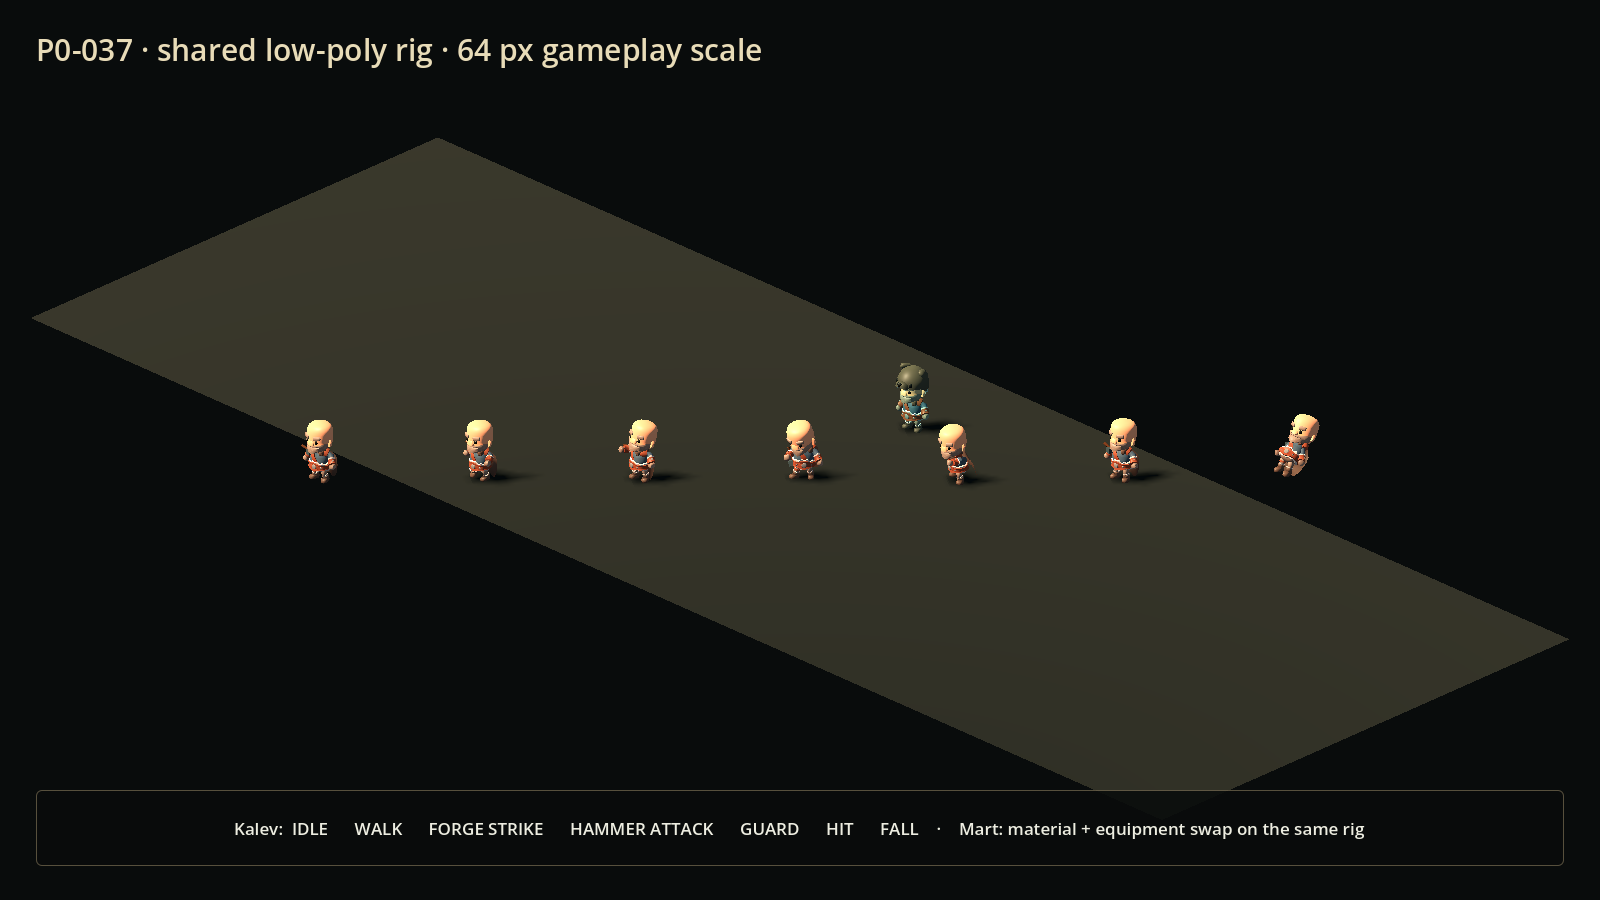
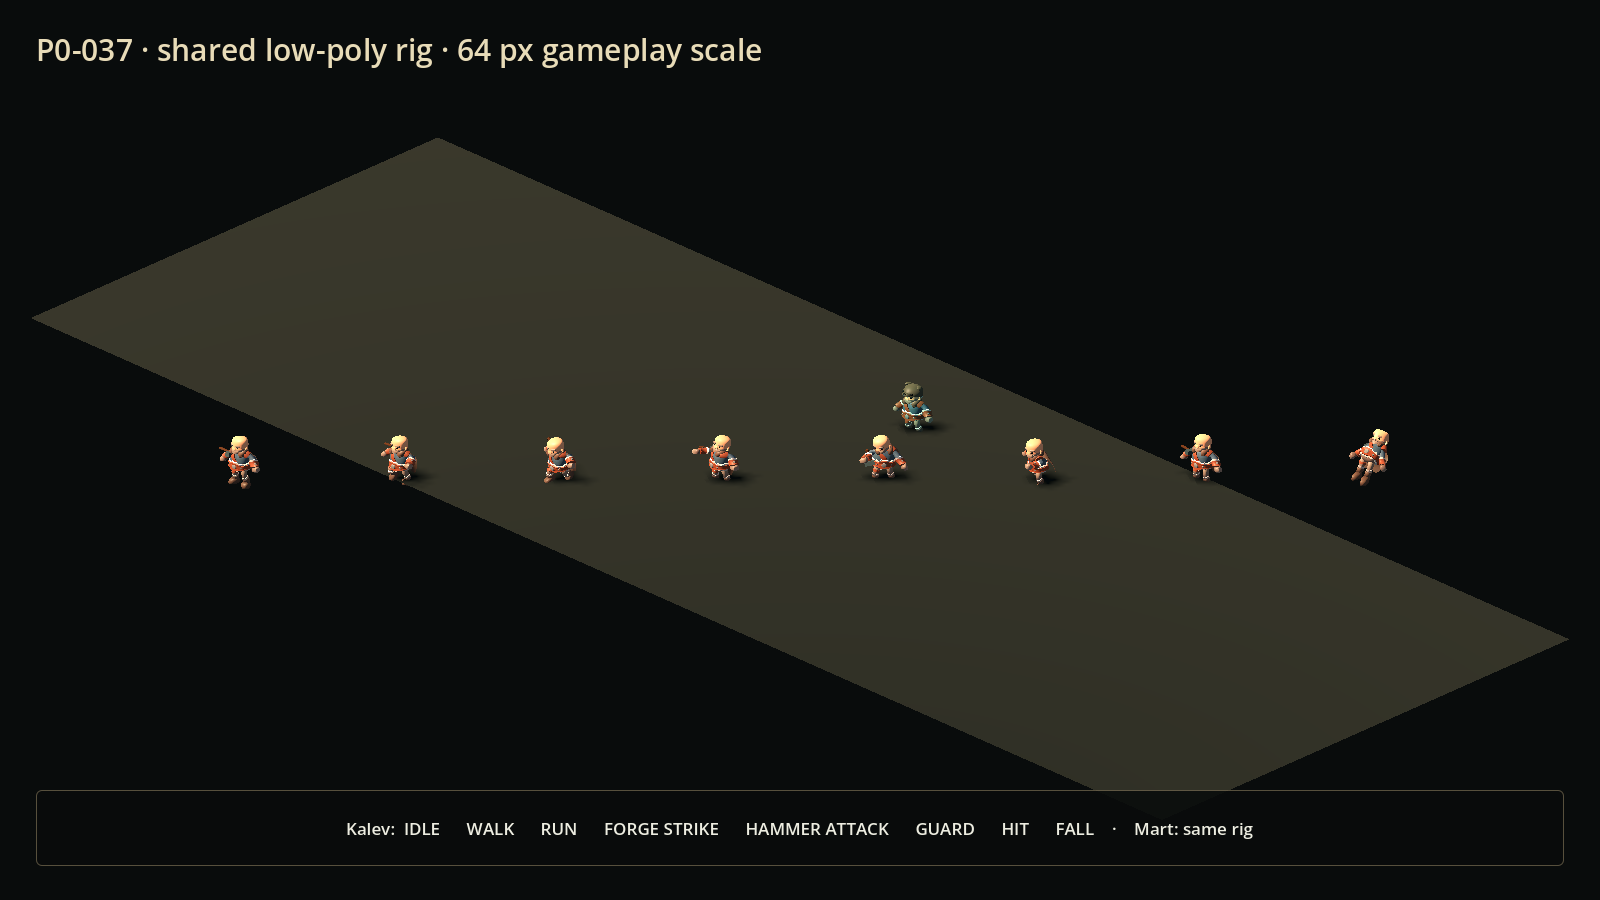
feat(characters): improve humanoid proportions and running gait
Use the existing run cycle with clear contralateral arm swing, push the shared skeleton toward adult heroic proportions, and add pose-level regression coverage plus updated showcase evidence.

diff --git a/assets/characters/README.md b/assets/characters/README.md
@@ -27,11 +27,14 @@ character.play_animation(&"walk")
 |---|---|---|
 | `idle` | `Idle` | neutral loop |
 | `walk` | `Walking_A` | logic-plane locomotion loop |
+| `run` | `Running_B` | faster stride with contralateral forward/backward arm swing |
 | `forge_strike` | `1H_Melee_Attack_Chop` | downward work strike |
 | `hammer_attack` | `1H_Melee_Attack_Slice_Diagonal` | combat strike |
 | `guard` | `Blocking` | held guard loop |
 | `hit` | `Hit_A` | damage reaction |
 | `fall` | `Death_A` | non-looping fall |
+
+The runtime applies a non-destructive `SkeletonModifier3D` after every animation update to move the compact vendor silhouette toward adult heroic proportions: the head is reduced to `0.64`, both leg segments are lengthened to `1.30`, both arm segments to `1.24`, and the torso is compressed slightly to `0.88`. This keeps every mesh and animation on the shared rig while making the figure read closer to the grounded proportions of classic isometric RPGs.
 
 The shared model is normalized to `2.0` world units. `CharacterScale.GAMEPLAY_ORTHOGRAPHIC_SIZE` is `28.125`, which projects that height to the carried-forward 64 px target in the 1600 x 900 viewport. P0-052 may read these constants but must not duplicate or silently change them; P0-040 can replace them when ART_BIBLE v2 is approved.
 